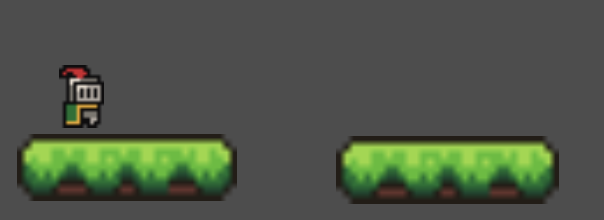
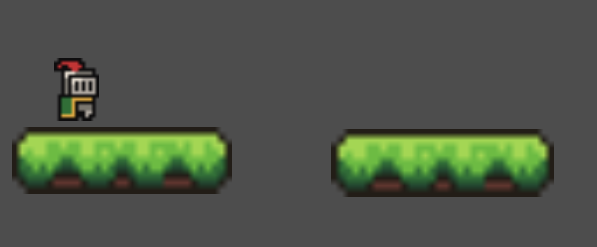
Edits

diff --git a/extraprojects.html b/extraprojects.html
@@ -40,7 +40,7 @@
         </div>
         <div class="card">
             <h3>Godot Project</h3>
-            <img src="Images/Godot.png" alt="Godot Image" width="300px">
+            <img src="Images/godot.png" alt="Godot Image" width="300px">
             <p>I was interested in other game engines and so I began to work on a Godot project - this project is very early in development and is ongoing.</p>
             <br></br>
             <a href="https://github.com/cappleby1/Godot_Game" target="_blank" class="link-box">
